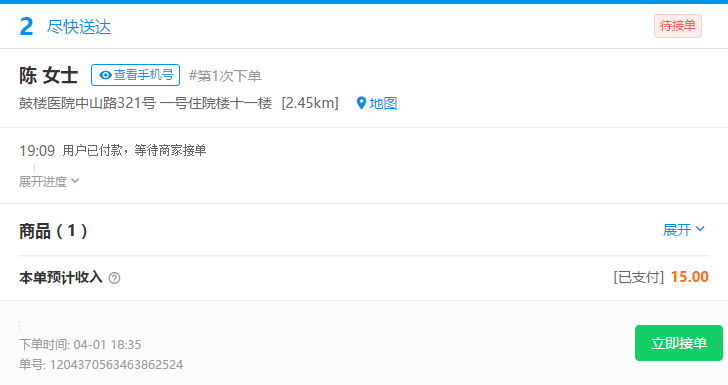
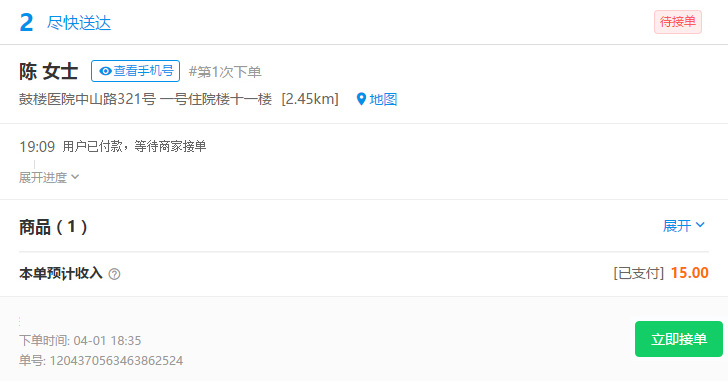
更新

diff --git a/Restaurant/src/view/order/component/order_check.vue b/Restaurant/src/view/order/component/order_check.vue
@@ -30,184 +30,33 @@
 			    </el-col>
 			  </el-form-item>
 		</el-form>
-		<el-collapse v-model="activeNames" @change="handleChange" class="order_list" >
-			<el-collapse-item title="8 【送达】5月1日 11：35 送达" name="1" class="order_item">
-		    	<div class="tip">
-			   	<el-tag type="primary">已完成</el-tag>
-			    </div>
-			    <div class="user_info">
-			    	<img src="../../../assets/order/order_user.jpg" alt="">
-			    </div>
-			    <div class="order_stat">
-			    	<img src="../../../assets/order/order_stat.jpg"  alt="">
-			    </div>
-			    <div class="order_item">
-			    	<img src="../../../assets/order/order_item.jpg"  alt="">
-			    </div>
-			    <div class="order_totle">
-			    	<span class="title">本单实收总金额：</span>
-			    	<span class="money">[已支付]￥ <em>15 元</em></span>
-			    </div>
-			    <div class="order_footer">
-			    	<img src="../../../assets/order/order_footer.jpg"  alt="">
-			    	<el-button class="order_btn">打印订单</el-button>
-			    </div>
-			</el-collapse-item>
-			<el-collapse-item title="7 【送达】5月1日 11：35 送达" name="2" class="order_item">
-		    	<div class="tip">
-			   	<el-tag type="primary">已完成</el-tag>
-			    </div>
-			    <div class="user_info">
-			    	<img src="../../../assets/order/order_user.jpg" alt="">
-			    </div>
-			    <div class="order_stat">
-			    	<img src="../../../assets/order/order_stat.jpg"  alt="">
-			    </div>
-			    <div class="order_item">
-			    	<img src="../../../assets/order/order_item.jpg"  alt="">
-			    </div>
-			    <div class="order_totle">
-			    	<span class="title">本单实收总金额：</span>
-			    	<span class="money">[已支付]￥ <em>15 元</em></span>
-			    </div>
-			    <div class="order_footer">
-			    	<img src="../../../assets/order/order_footer.jpg"  alt="">
-			    	<el-button class="order_btn">打印订单</el-button>
-			    </div>
-			</el-collapse-item>
-			<el-collapse-item title="6 【送达】5月1日 11：35 送达" name="3" class="order_item">
-		    	<div class="tip">
-			   	<el-tag type="primary">已完成</el-tag>
-			    </div>
-			    <div class="user_info">
-			    	<img src="../../../assets/order/order_user.jpg" alt="">
-			    </div>
-			    <div class="order_stat">
-			    	<img src="../../../assets/order/order_stat.jpg"  alt="">
-			    </div>
-			    <div class="order_item">
-			    	<img src="../../../assets/order/order_item.jpg"  alt="">
-			    </div>
-			    <div class="order_totle">
-			    	<span class="title">本单实收总金额：</span>
-			    	<span class="money">[已支付]￥ <em>15 元</em></span>
-			    </div>
-			    <div class="order_footer">
-			    	<img src="../../../assets/order/order_footer.jpg"  alt="">
-			    	<el-button class="order_btn">打印订单</el-button>
-			    </div>
-			</el-collapse-item>
-			<el-collapse-item title="5 【送达】5月1日 11：35 送达" name="4" class="order_item">
-		    	<div class="tip">
-			   	<el-tag type="primary">已完成</el-tag>
-			    </div>
-			    <div class="user_info">
-			    	<img src="../../../assets/order/order_user.jpg" alt="">
-			    </div>
-			    <div class="order_stat">
-			    	<img src="../../../assets/order/order_stat.jpg"  alt="">
-			    </div>
-			    <div class="order_item">
-			    	<img src="../../../assets/order/order_item.jpg"  alt="">
-			    </div>
-			    <div class="order_totle">
-			    	<span class="title">本单实收总金额：</span>
-			    	<span class="money">[已支付]￥ <em>15 元</em></span>
-			    </div>
-			    <div class="order_footer">
-			    	<img src="../../../assets/order/order_footer.jpg"  alt="">
-			    	<el-button class="order_btn">打印订单</el-button>
-			    </div>
-			</el-collapse-item>
-			<el-collapse-item title="4 【送达】5月1日 11：35 送达" name="5" class="order_item">
-		    	<div class="tip">
-			   	<el-tag type="primary">已完成</el-tag>
-			    </div>
-			    <div class="user_info">
-			    	<img src="../../../assets/order/order_user.jpg" alt="">
-			    </div>
-			    <div class="order_stat">
-			    	<img src="../../../assets/order/order_stat.jpg"  alt="">
-			    </div>
-			    <div class="order_item">
-			    	<img src="../../../assets/order/order_item.jpg"  alt="">
-			    </div>
-			    <div class="order_totle">
-			    	<span class="title">本单实收总金额：</span>
-			    	<span class="money">[已支付]￥ <em>15 元</em></span>
-			    </div>
-			    <div class="order_footer">
-			    	<img src="../../../assets/order/order_footer.jpg"  alt="">
-			    	<el-button class="order_btn">打印订单</el-button>
-			    </div>
-			</el-collapse-item>
-			<el-collapse-item title="3 【送达】5月1日 11：35 送达" name="6" class="order_item">
-		    	<div class="tip">
-			   	<el-tag type="primary">已完成</el-tag>
-			    </div>
-			    <div class="user_info">
-			    	<img src="../../../assets/order/order_user.jpg" alt="">
-			    </div>
-			    <div class="order_stat">
-			    	<img src="../../../assets/order/order_stat.jpg"  alt="">
-			    </div>
-			    <div class="order_item">
-			    	<img src="../../../assets/order/order_item.jpg"  alt="">
-			    </div>
-			    <div class="order_totle">
-			    	<span class="title">本单实收总金额：</span>
-			    	<span class="money">[已支付]￥ <em>15 元</em></span>
-			    </div>
-			    <div class="order_footer">
-			    	<img src="../../../assets/order/order_footer.jpg"  alt="">
-			    	<el-button class="order_btn">打印订单</el-button>
-			    </div>
-			</el-collapse-item>
-			<el-collapse-item title="2 【送达】5月1日 11：35 送达" name="7" class="order_item">
-		    	<div class="tip">
-			   	<el-tag type="primary">已完成</el-tag>
-			    </div>
-			    <div class="user_info">
-			    	<img src="../../../assets/order/order_user.jpg" alt="">
-			    </div>
-			    <div class="order_stat">
-			    	<img src="../../../assets/order/order_stat.jpg"  alt="">
-			    </div>
-			    <div class="order_item">
-			    	<img src="../../../assets/order/order_item.jpg"  alt="">
-			    </div>
-			    <div class="order_totle">
-			    	<span class="title">本单实收总金额：</span>
-			    	<span class="money">[已支付]￥ <em>15 元</em></span>
-			    </div>
-			    <div class="order_footer">
-			    	<img src="../../../assets/order/order_footer.jpg"  alt="">
-			    	<el-button class="order_btn">打印订单</el-button>
-			    </div>
-			</el-collapse-item>
-			<el-collapse-item title="1 【送达】5月1日 11：35 送达" name="8" class="order_item">
-		    	<div class="tip">
-			   	<el-tag type="primary">已完成</el-tag>
-			    </div>
-			    <div class="user_info">
-			    	<img src="../../../assets/order/order_user.jpg" alt="">
-			    </div>
-			    <div class="order_stat">
-			    	<img src="../../../assets/order/order_stat.jpg"  alt="">
-			    </div>
-			    <div class="order_item">
-			    	<img src="../../../assets/order/order_item.jpg"  alt="">
-			    </div>
-			    <div class="order_totle">
-			    	<span class="title">本单实收总金额：</span>
-			    	<span class="money">[已支付]￥ <em>15 元</em></span>
-			    </div>
-			    <div class="order_footer">
-			    	<img src="../../../assets/order/order_footer.jpg"  alt="">
-			    	<el-button class="order_btn">打印订单</el-button>
-			    </div>
-			</el-collapse-item>
-		</el-collapse>
+		<div class="item-list">
+			<img class="img" src="../../../assets/order/6.jpg" alt="">
+		</div>
+		<div class="item-list">
+			<img class="img" src="../../../assets/order/6.jpg" alt="">
+		</div>
+		<div class="item-list">
+			<img class="img" src="../../../assets/order/6.jpg" alt="">
+		</div>
+		<div class="item-list">
+			<img class="img" src="../../../assets/order/6.jpg" alt="">
+		</div>
+		<div class="item-list">
+			<img class="img" src="../../../assets/order/6.jpg" alt="">
+		</div>
+		<div class="item-list">
+			<img class="img" src="../../../assets/order/6.jpg" alt="">
+		</div>
+		<div class="item-list">
+			<img class="img" src="../../../assets/order/6.jpg" alt="">
+		</div>
+		<div class="item-list">
+			<img class="img" src="../../../assets/order/6.jpg" alt="">
+		</div>
+		<div class="item-list">
+			<img class="img" src="../../../assets/order/6.jpg" alt="">
+		</div>
 	</div>
 </template>
 <script>
@@ -238,49 +87,11 @@
 
 <style scoped lang="scss">
 	.order_new {
-		border: 1px solid #dfe6ec;
-		padding: 5px;
-		.order_list {
-			.order_item{
-				position: relative;
-				.tip {
-				position: absolute;
-				top:10px;
-				right: 10px;
-				}
-			}
+		padding-left: 10px;
+		border-right: 1px solid #dfe6ec;
+		.img {
+			margin-bottom: 10px;
+			border: 1px solid #dfe6ec;
 		}
-	}
-	.user_info {
-		border-bottom: 1px solid #dfe6ec;
-	}
-	.order_stat {
-		border-bottom: 1px solid #dfe6ec;
-	}
-	.order_item {
-		border-bottom: 1px solid #dfe6ec;
-	}
-	.order_totle {
-		border-bottom: 1px solid #dfe6ec;
-	}
-	.order_totle .title {
-		font-size: 18px;
-		font-weight: 500;
-	}
-	.order_totle .money {
-		float: right;
-		font-size: 18px;
-		font-weight: 500;
-	}
-	.order_totle .money em {
-		color:red;
-	}
-	.order_footer {
-		position: relative;
-	}
-	.order_footer .order_btn {
-		position: absolute;
-		top: 20px;
-		right: 20px;
 	}
 </style>

diff --git a/Restaurant/src/view/order/component/order_yuding.vue b/Restaurant/src/view/order/component/order_yuding.vue
@@ -95,7 +95,7 @@
 			position:relative;
 			.img {
 				margin-bottom: 10px;
-				border-bottom: 1px solid #dfe6ec;
+				border: 1px solid #dfe6ec;
 			}
 			.tip{
 				position: absolute;

diff --git a/Restaurant/src/view/order/component/order_new.vue b/Restaurant/src/view/order/component/order_new.vue
@@ -41,7 +41,7 @@
 		border-right: 1px solid #dfe6ec;
 		.img {
 			margin-bottom: 10px;
-			border-bottom: 1px solid #dfe6ec;
+			border: 1px solid #dfe6ec;
 		}
 	}
 	
